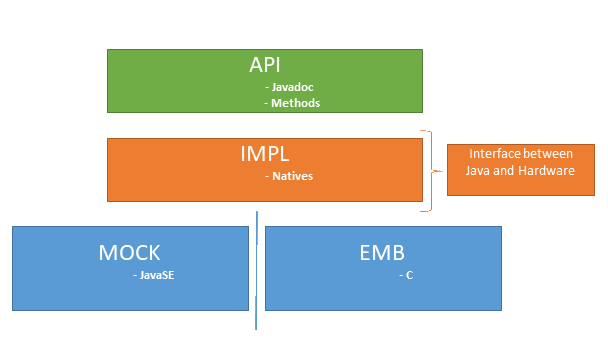
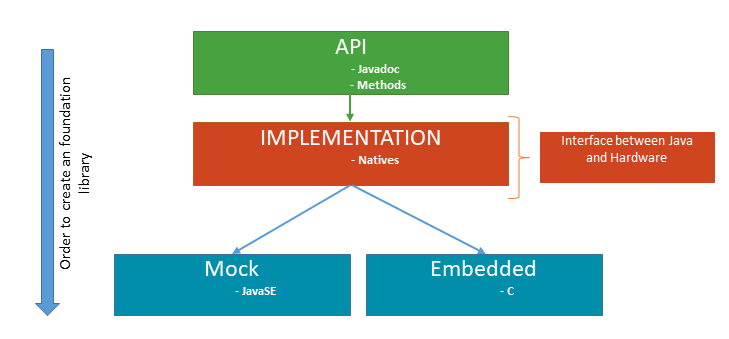
M0127CC-8 Update Readme

diff --git a/FoundationLibrary-Get-Started/README.md b/FoundationLibrary-Get-Started/README.md
@@ -1,5 +1,5 @@
 # How to create a Foundation Library #
-A MicroEJ Foundation Library is a MicroEJ library that provides core runtime APIs or hardware-dependent functionality. It is often connected to underlying C low-level APIs.
+A Foundation Library is a library that provides core runtime APIs or hardware-dependent functionality. It is often connected to underlying C low-level APIs.
 
 ![LLAPI](assets/schema1.png)
 
@@ -9,15 +9,16 @@ A MicroEJ Foundation Library is a MicroEJ library that provides core runtime API
 	- [Getting started](http://developer.microej.com/getting-started-sdk.html)
 3. Knowledge about Java and C programming
 4. Basic knowledge about MicroEJ (building platform and deploy app)
+5. Knowledge how to communicate from Java to C [Example-Standalone-Java-C-Interface](https://github.com/MicroEJ/Example-Standalone-Java-C-Interface)
 
 # Create a Foundation library
 ## Define your API
 * Select **File > EasyAnt Project **
-	* Select  **build-microej-javaapi** Skeleton.
- <br/> If you use MicroEJ SDK 4.1.1, Edit [module.ivy](mylib-api/module.ivy)n and update **microej.lib.name** and **rip.printableName** like this (microej.lib.name="mylib-1.0-api" rip.printableName="mylib-1.0-api")
+	* Select  **build-microej-javaapi** skeleton.
+  <br/> If you use MicroEJ SDK 4.1.1, Edit [module.ivy](mylib-api/module.ivy) and update **microej.lib.name** and **rip.printableName** (e.g., microej.lib.name="mylib-1.0-api" and rip.printableName="mylib-1.0-api")
 
-	* Select  **File > Java > Class** menu item. <br />
-In this class, you have to define all methods but don't write the implementation. Each methods throw a RuntimeException.
+	* Create a new class **File > Java > Class** menu item. <br />
+In this class, define all the foundation lib's methods, their implementations throw a new RuntimeException.
 ```
 public class MyLib {
 	/**
@@ -33,25 +34,30 @@ public class MyLib {
 		}
 }
 ```
+### Build the API
 Right-click on the chosen firmware project and select **Build With EasyAnt**. This may take several minutes.
-After successful build, the application artifacts are available in application project build folder [target~/artifacts] and contains:
+After successful build, the application artifacts are available in application project build folder **target~/artifacts** and contains:
 		* **Jar** file (MyLib-api.jar)
 		* **Rip** file (MyLib-api.rip)
-
+### Add the API to a platform 
 Unzip the file rip and copy the content directory in your **platform-configuration/dropins/javaAPIs**. <br />
-**Rebuild** your platform. <br />After successful build, the Javadoc of your API is available in the MicroEJ Resource Center View.
+**Rebuild** your platform. <br />
+After successful build, the Javadoc of your API is available in the MicroEJ Resource Center View.
 
 ## Write implementation
 
 ### Java
  * **File > EasyAnt Project**
- 	* Select **build-microej-javaimpl** Skeleton.
+ 	* Create a new class with **build-microej-javaimpl** skeleton.
 
 Only if you use MicroEJ SDK 4.1.1 :<br/>
  * In [module.ivy](mylib-impl/module.ivy)
-     * Update the revision to 3.+
+     * Update build type revision to 3.+
+	  ```
+     		   <ea:build organisation="com.is2t.easyant.buildtypes" module="build-microej-javaimpl" microej.lib.name="mylib-impl-1.0" rip.printableName="mylib-impl Impl" revision="3.+">
+		 ```
      * Change microej.lib.name="mylib-impl-1.0" rip.printableName="mylib-impl-1.0"
-     * Update dependency :
+     * Update EDC dependency :
 		 ```
 		 	  <dependency org="ej.api" name="edc" rev="[1.2.0-RC0,2.0.0-RC0[" conf="provided->*" />
 		 ```
@@ -70,9 +76,23 @@ Only if you use MicroEJ SDK 4.1.1 :<br/>
 			</natures>
 	```
 
-* Select **File > Java > Class** menu item.
+ * Create a new **File > Java > Class** .
+	* Class Name : **MyLibNatives**
+	* Define your native interfaces :
+	```
+		/**
+		 * Class define all native.
+		 */
+		 public class MyLibNatives {
+			public native static int factorial(int number);
+		 }
+	```
+
+Java and Native calls are separate. With this organization, it is more easy to write the MOCK and to split the two parts if one wants to change support of implementation.
+
+* Create a new class **File > Java > Class** .
 	* Class Name : **MyLib**  [MyLib.java](/mylib-impl/src/main/java/com/mycompany/MyLib.java)
-	* Copy and paste the following code :  
+	* Use your native functions :  
 	```
 		/**
 		* @see API javadoc
@@ -87,20 +107,7 @@ Only if you use MicroEJ SDK 4.1.1 :<br/>
 			return MyLibNatives.factorial(number);
 		}
 	```
-	In **Java**, you can test input value and throw an exception if the input value isn't correct. But we use the c language is faster for mathematical operations.
-
-* Select **File > Java > Class** menu item.
-	* Class Name : **MyLibNatives**
-	* Copy and paste the following code :
-	```
-		/**
-		 * Class define all native.
-		 */
-		 public class MyLibNatives {
-			public native static int factorial(int number);
-		 }
-	```
-Java and Native calls are separate. With this organization, it is more easy to write the MOCK and to split the two parts if one wants to change support of implementation.
+	In **Java**, you can test input value and throw an exception if the input value isn't correct. 
 
 ### Native C
 
@@ -131,29 +138,20 @@ Copy and paste the following code inside the file content/include/LLMYLIB_impl.h
 	#endif
 ```
 
-Right-click on the chosen firmware project and select Build With EasyAnt. This may take several minutes.
-After successful build, the application artifacts are available in application project build folder target~/artifacts and contains:
-- **Jar** file (MyLib-api.jar)
-- **Rip** file (MyLib-api.rip)
-
-Unzip the **rip** file and copy the content directory in **platform-configuration/dropins/**.
+Rebuild your firmware project, this may take several minutes.
+After successful build, unzip the **rip** file and copy the content directory in **platform-configuration/dropins/**.
 
 **Rebuild your Platform**
 
 ### Write Example Application ###
-* Select **File > MicroEJ Standalone Application Project**
+* Create a new project **File > MicroEJ Standalone Application Project**
 	* Project Name : **mylib-test**
-	* MicroEJ librairies
-		* Check :
-			* **EDC-1.2**
-			* **MYLIB-1.0**
 
 * Select **File > Class >**
 	* Class Name : **TestMyLib**
 	* Copy and paste the following code :
 ```
 	public class TestMyLib {
-
 		public static void main(String[] args) {
 			System.out.println("(5!)=" + MyLib.factorial(5));
 		}
@@ -197,7 +195,7 @@ Note that the mock method in /mylib-mock/.../MyLibNatives.java has the same full
 			* Select **HILENGINE 2.1** (Use the last version)
 * Click on **Finish**
 
-Copy and paste the following code inside the project (**Tips** : If you don't want to make a mistake in definition of methods, copy directly [MyLibNatives.java](mylib-impl\src\main\java\com\mycompany\MyLibNatives.java) from your implementation in the project ) :
+Copy and paste the following code inside the project (**Note** : If you don't want to make a mistake in definition of methods, copy directly [MyLibNatives.java](mylib-impl\src\main\java\com\mycompany\MyLibNatives.java) from your implementation in the project ) :
 
 ```
 package com.mycompany;
@@ -246,11 +244,6 @@ public class MyLibNatives {
 			* Notice that "Execute on Device" radio button option is checked
 	* Click on "Run"
 
-### Opening the generated C project (BSP specific)
-* From the **Project Explorer** view
-	* Navigate to the [FoundationLibrary-bsp/Project/MicroEJ/MDK-ARM] folder
-	* Double-click on the [Project.uvproj] file (this will open the BSP project in the MicroVision IDE)
-
 ### Getting a linker error (BSP specific)
 * From the MicroVision IDE
 	* Select **Project > Build Target** menu item (or press F7 keyboard shortcut)
@@ -287,30 +280,14 @@ This is perfectly normal since in [MyLibTest.java] we declared **factorial** as 
 				return number * LLMYLIB_IMPL_factorial(number-1);
 		}
 ```
-* Right-click on the file that you just created
-	* Select **Properties** context menu item
-		* Copy the value of the **Resource > Location** field into the clipboard
-
 #### Adding the C file to the BSP IDE project structure (BSP specific)
-* Select the root node of your project
-	* Right-Click and select **Add Group** this will add a group called "New Group"
-	* Select this group and hit **F2** key so as to rename it to "Natives"
-	* Right-Click on the **Natives** group and select **Add Existing Files to group 'Natives'...**
-	* Navigate to the "[LLMYLIB_impl.c](/mylib-impl/src/main/c/LLMYLIB_impl.c)"
-	* Click **Add**
-	* Click **Close**
+* Add the previous file in your platform with your IDE.
 
 #### Getting a clean link (BSP specific)
-* Select **Project > Build Target** menu item (or press F7 keyboard shortcut)
-```
-		*** Using Compiler 'V5.06 update 5 (build 528)', folder: 'C:\Keil_v5\ARM\ARMCC\Bin'
-		Build target 'standalone'
-		".\standalone\standalone.axf" - 0 Error(s), 0 Warning(s).
-		Build Time Elapsed:  00:00:02
-```
+* Build target
+
 ### Flashing the board (BSP specific)
-* Connect your board
-* Select **Flash > Download** menu item (or press F8 keyboard shortcut).
+* Connect and flash your board.
 
 ### Checking the behavior
 * Set up a terminal on the board serial port and press the reset input. You shall get the following output :
